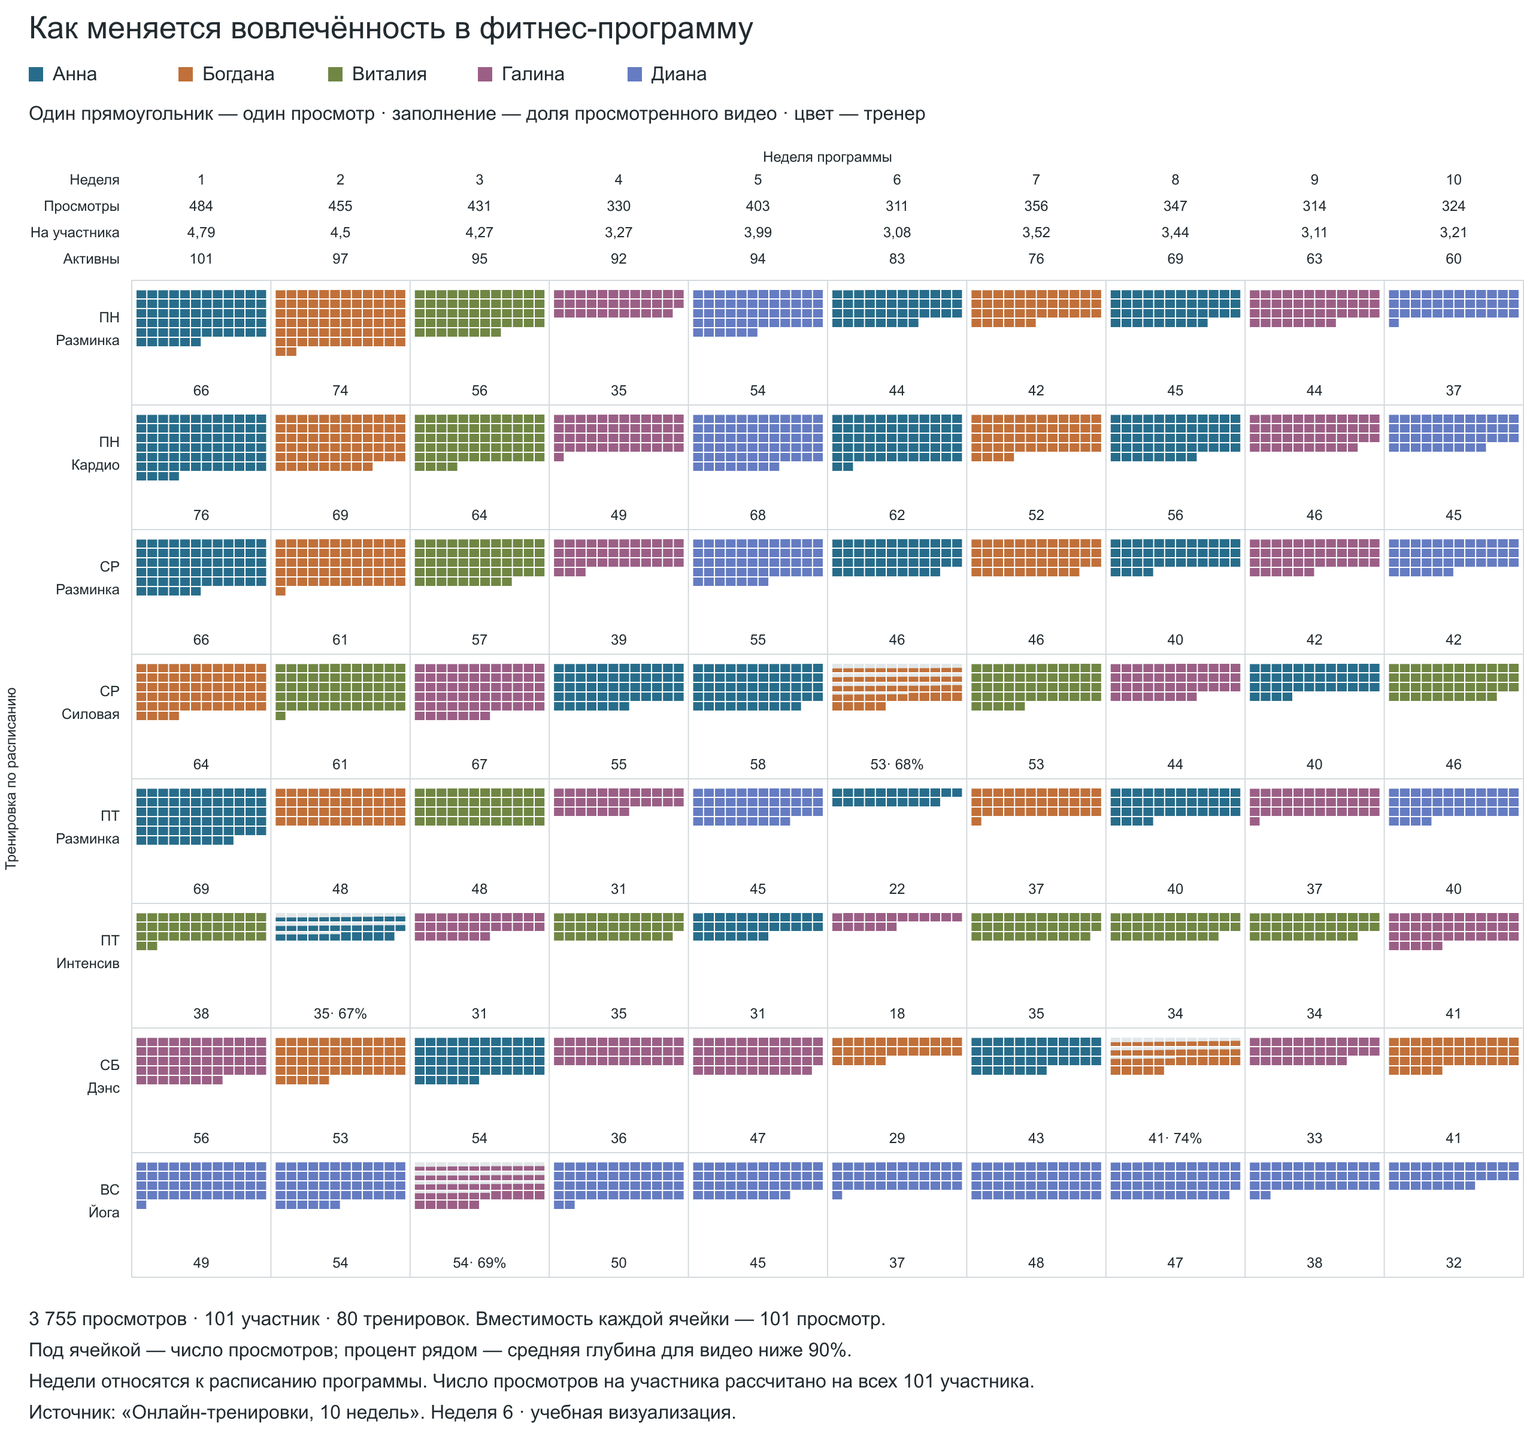
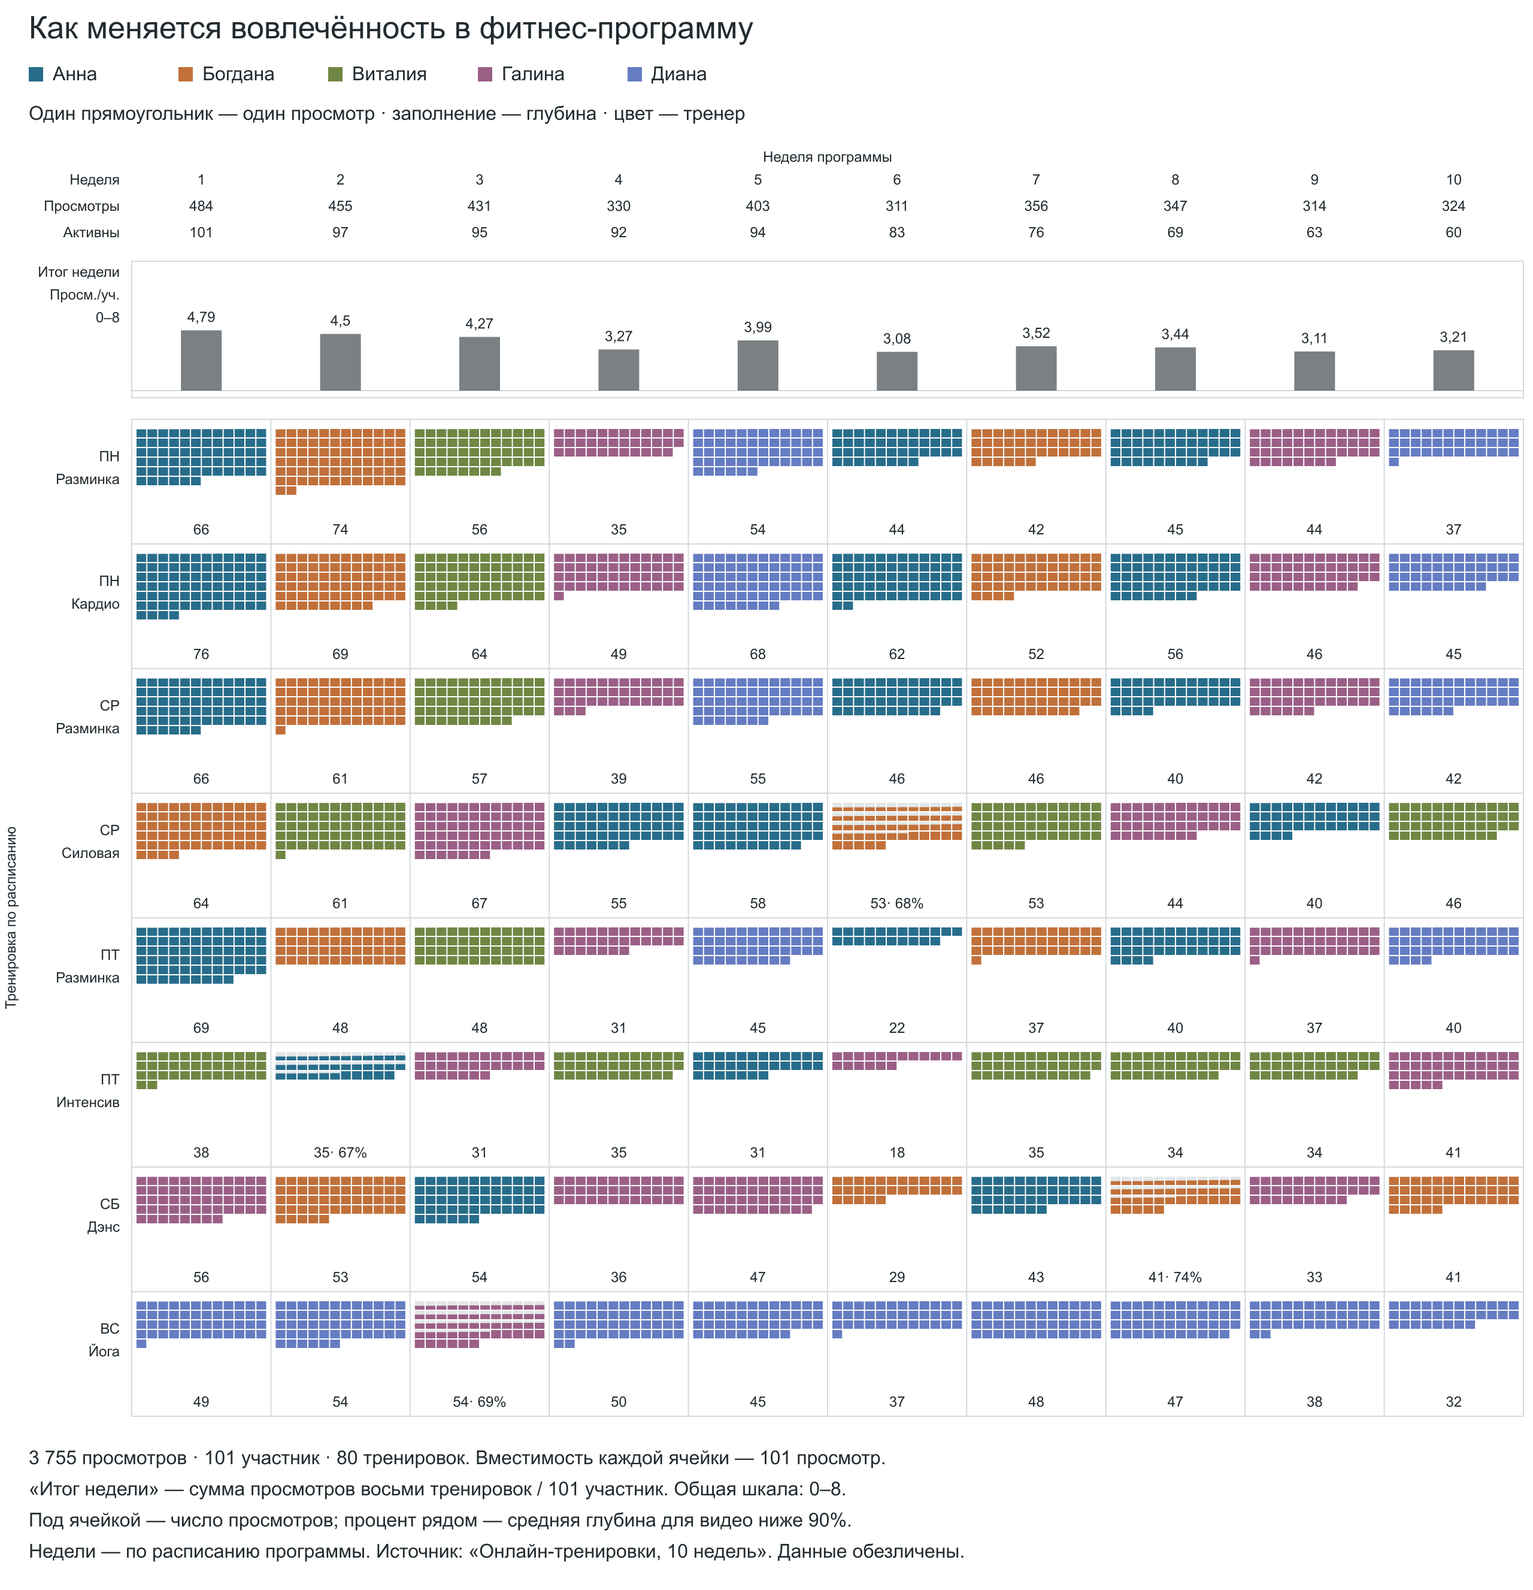
Add weekly engagement totals and simplify homework page

diff --git a/fitness/index.html b/fitness/index.html
@@ -23,7 +23,6 @@ body{max-width:1280px;margin:0 auto;font-family:Arial,sans-serif;color:light-dar
 <span>Неделя 6 · Фитнес-программа</span>
 <a href="#conclusions">Выводы</a>
 <a href="fitness-homework.png" download>График PNG</a>
-<a href="https://github.com/yarosanru/lavka-dashboard/blob/main/fitness/DATALENS.md">Инструкция для DataLens</a>
 <a href="https://github.com/yarosanru/lavka-dashboard/tree/main/fitness">Репозиторий</a>
 </nav>
 <iframe id="codex-visualization" sandbox="allow-scripts" referrerpolicy="no-referrer" title="Неделя 6 — вовлечённость в фитнес-программу" data-srcdoc="&lt;!doctype html&gt;
@@ -1892,6 +1891,33 @@ html&gt;body{padding:0}&lt;/style&gt;
       }
     }
   }
+  function drawWeekSummary(svg,weeks,cw,left){
+    const barTop=124,barBottom=208;
+    const capacity=d3.max(data.weekly,w=&gt;data.workouts.filter(t=&gt;t.week===w.week).length);
+    const scale=d3.scaleLinear().domain([0,capacity]).range([barBottom,barTop]);
+    svg.append(&#x27;rect&#x27;).attr(&#x27;data-summary-frame&#x27;,&#x27;&#x27;).attr(&#x27;x&#x27;,left).attr(&#x27;y&#x27;,100).attr(&#x27;width&#x27;,weeks.length*cw).attr(&#x27;height&#x27;,114).attr(&#x27;fill&#x27;,&#x27;none&#x27;).attr(&#x27;stroke&#x27;,&#x27;var(--border)&#x27;);
+    [[&#x27;Итог недели&#x27;,113],[&#x27;Просм./уч.&#x27;,132],[`0–${capacity}`,151]].forEach(([label,y])=&gt;svg.append(&#x27;text&#x27;).attr(&#x27;class&#x27;,&#x27;fa-axis-tick&#x27;).attr(&#x27;x&#x27;,left-10).attr(&#x27;y&#x27;,y).attr(&#x27;text-anchor&#x27;,&#x27;end&#x27;).text(label));
+    svg.append(&#x27;line&#x27;).attr(&#x27;x1&#x27;,left).attr(&#x27;x2&#x27;,left+weeks.length*cw).attr(&#x27;y1&#x27;,barBottom).attr(&#x27;y2&#x27;,barBottom).attr(&#x27;stroke&#x27;,&#x27;var(--border)&#x27;);
+    for(const [index,week] of weeks.entries()){
+      const workouts=data.workouts.filter(w=&gt;w.week===week.week);
+      const total=d3.sum(workouts,w=&gt;w.views),engagement=total/data.participants;
+      const x=left+index*cw,c=x+cw/2;
+      const link=svg.append(&#x27;a&#x27;).attr(&#x27;href&#x27;,&#x27;#fitness-homework-detail&#x27;).attr(&#x27;data-week-summary&#x27;,week.week).attr(&#x27;data-summary-views&#x27;,total).attr(&#x27;data-summary-population&#x27;,data.participants).attr(&#x27;data-summary-engagement&#x27;,engagement).attr(&#x27;aria-label&#x27;,`Итог недели ${week.week}: ${workouts.length} тренировок, ${total} просмотров, ${num.format(engagement)} на участника, ${week.users} активных участников.`);
+      const barWidth=Math.min(34,cw*.52);
+      link.append(&#x27;rect&#x27;).attr(&#x27;data-summary-bar&#x27;,week.week).attr(&#x27;x&#x27;,c-barWidth/2).attr(&#x27;y&#x27;,scale(engagement)).attr(&#x27;width&#x27;,barWidth).attr(&#x27;height&#x27;,barBottom-scale(engagement)).attr(&#x27;fill&#x27;,&#x27;var(--foreground)&#x27;).attr(&#x27;opacity&#x27;,.6);
+      link.append(&#x27;text&#x27;).attr(&#x27;class&#x27;,&#x27;fa-value&#x27;).attr(&#x27;data-week&#x27;,week.week).attr(&#x27;data-metric&#x27;,&#x27;engagement&#x27;).attr(&#x27;x&#x27;,c).attr(&#x27;y&#x27;,scale(engagement)-7).attr(&#x27;text-anchor&#x27;,&#x27;middle&#x27;).text(num.format(engagement));
+      link.append(&#x27;rect&#x27;).attr(&#x27;data-summary-hit&#x27;,week.week).attr(&#x27;x&#x27;,x+1).attr(&#x27;y&#x27;,101).attr(&#x27;width&#x27;,cw-2).attr(&#x27;height&#x27;,112).attr(&#x27;fill&#x27;,&#x27;transparent&#x27;);
+      function inspectWeek(event){
+        tip.textContent=[`Итог недели ${week.week} · все ${workouts.length} тренировок`,`Всего просмотров: ${total}`,`Просмотров на участника: ${num.format(engagement)}`,`Активных участников: ${week.users} из ${data.participants}`,...workouts.map(w=&gt;`${w.day.toUpperCase()} · ${w.kind}: ${w.views}`)].join(&#x27;\n&#x27;);
+        tip.hidden=false;
+        const rect=root.getBoundingClientRect();
+        tip.style.left=Math.max(0,Math.min(event.clientX-rect.left+12,rect.width-tip.offsetWidth))+&#x27;px&#x27;;
+        tip.style.top=Math.max(0,event.clientY-rect.top-tip.offsetHeight-12)+&#x27;px&#x27;;
+      }
+      link.on(&#x27;pointermove&#x27;,inspectWeek).on(&#x27;pointerleave&#x27;,()=&gt;{tip.hidden=true;}).on(&#x27;focus&#x27;,()=&gt;{const box=link.node().getBoundingClientRect();inspectWeek({clientX:box.left,clientY:box.top});}).on(&#x27;blur&#x27;,()=&gt;{tip.hidden=true;}).on(&#x27;click&#x27;,event=&gt;{event.preventDefault();selection.textContent=`Итог недели ${week.week} · ${total} просмотров восьми тренировок · ${num.format(engagement)} на всех ${data.participants} участников · активны ${week.users}`;inspectWeek(event);});
+    }
+  }
+
   function draw(){
     const width=holder.clientWidth;
     if(!width)return;
@@ -1906,7 +1932,7 @@ html&gt;body{padding:0}&lt;/style&gt;
     const atomHeight=7,atomYGap=1,atomTop=8;
     const markRows=Math.ceil(data.participants/atomCols);
     const rowHeight=atomTop+markRows*(atomHeight+atomYGap)+24;
-    const top=116,bottom=8,height=top+rowHeight*8+bottom;
+    const top=232,bottom=8,height=top+rowHeight*8+bottom;
     for(let start=1;start&lt;=10;start+=weeksPerPanel){
       const weeks=data.weekly.filter(d=&gt;d.week&gt;=start&amp;&amp;d.week&lt;start+weeksPerPanel);
       const end=weeks.at(-1).week;
@@ -1914,12 +1940,12 @@ html&gt;body{padding:0}&lt;/style&gt;
       svg.append(&#x27;rect&#x27;).attr(&#x27;data-chart-frame&#x27;,&#x27;&#x27;).attr(&#x27;x&#x27;,left).attr(&#x27;y&#x27;,top).attr(&#x27;width&#x27;,weeks.length*cw).attr(&#x27;height&#x27;,rowHeight*8).attr(&#x27;fill&#x27;,&#x27;none&#x27;).attr(&#x27;stroke&#x27;,&#x27;var(--border)&#x27;);
       svg.append(&#x27;text&#x27;).attr(&#x27;class&#x27;,&#x27;axis-title&#x27;).attr(&#x27;data-axis&#x27;,&#x27;x&#x27;).attr(&#x27;x&#x27;,left+weeks.length*cw/2).attr(&#x27;y&#x27;,17).attr(&#x27;text-anchor&#x27;,&#x27;middle&#x27;).text(&#x27;Неделя программы&#x27;);
       svg.append(&#x27;text&#x27;).attr(&#x27;class&#x27;,&#x27;axis-title&#x27;).attr(&#x27;data-axis&#x27;,&#x27;y&#x27;).attr(&#x27;transform&#x27;,`translate(13,${top+rowHeight*4}) rotate(-90)`).attr(&#x27;text-anchor&#x27;,&#x27;middle&#x27;).text(&#x27;Тренировка по расписанию&#x27;);
-      [[&#x27;Неделя&#x27;,36],[&#x27;Просмотры&#x27;,58],[&#x27;На участника&#x27;,80],[&#x27;Активны&#x27;,102]].forEach(([label,y])=&gt;svg.append(&#x27;text&#x27;).attr(&#x27;class&#x27;,&#x27;fa-axis-tick&#x27;).attr(&#x27;x&#x27;,left-10).attr(&#x27;y&#x27;,y).attr(&#x27;text-anchor&#x27;,&#x27;end&#x27;).text(label));
+      [[&#x27;Неделя&#x27;,36],[&#x27;Просмотры&#x27;,58],[&#x27;Активны&#x27;,80]].forEach(([label,y])=&gt;svg.append(&#x27;text&#x27;).attr(&#x27;class&#x27;,&#x27;fa-axis-tick&#x27;).attr(&#x27;x&#x27;,left-10).attr(&#x27;y&#x27;,y).attr(&#x27;text-anchor&#x27;,&#x27;end&#x27;).text(label));
       const allPositions=[],workoutLinks=[];
       weeks.forEach((week,index)=&gt;{
         const x=left+index*cw;
         const c=x+cw/2;
-        [[week.week,36,&#x27;week&#x27;],[week.views,58,&#x27;views&#x27;],[num.format(week.views/data.participants),80,&#x27;engagement&#x27;],[week.users,102,&#x27;users&#x27;]].forEach(([value,y,metric])=&gt;svg.append(&#x27;text&#x27;).attr(&#x27;class&#x27;,&#x27;fa-value&#x27;).attr(&#x27;data-week&#x27;,week.week).attr(&#x27;data-metric&#x27;,metric).attr(&#x27;x&#x27;,c).attr(&#x27;y&#x27;,y).attr(&#x27;text-anchor&#x27;,&#x27;middle&#x27;).text(value));
+        [[week.week,36,&#x27;week&#x27;],[week.views,58,&#x27;views&#x27;],[week.users,80,&#x27;users&#x27;]].forEach(([value,y,metric])=&gt;svg.append(&#x27;text&#x27;).attr(&#x27;class&#x27;,&#x27;fa-value&#x27;).attr(&#x27;data-week&#x27;,week.week).attr(&#x27;data-metric&#x27;,metric).attr(&#x27;x&#x27;,c).attr(&#x27;y&#x27;,y).attr(&#x27;text-anchor&#x27;,&#x27;middle&#x27;).text(value));
         if(index&gt;0)svg.append(&#x27;line&#x27;).attr(&#x27;x1&#x27;,x).attr(&#x27;x2&#x27;,x).attr(&#x27;y1&#x27;,top).attr(&#x27;y2&#x27;,top+rowHeight*8).attr(&#x27;stroke&#x27;,&#x27;var(--border)&#x27;);
         for(let slot=1;slot&lt;=8;slot++){
           const w=data.workouts.find(d=&gt;d.week===week.week&amp;&amp;Number(d.code.slice(-2))===slot);
@@ -1973,6 +1999,7 @@ html&gt;body{padding:0}&lt;/style&gt;
         label.append(&#x27;tspan&#x27;).text(w.views);
         if(w.mean_depth&lt;.9)label.append(&#x27;tspan&#x27;).attr(&#x27;data-low-depth&#x27;,w.code).text(` · ${Math.round(w.mean_depth*100)}%`);
       }
+      drawWeekSummary(svg,weeks,cw,left);
       verifyLabels(svg);
     }
   }
@@ -2584,6 +2611,7 @@ html&gt;body{padding:0}&lt;/style&gt;
 <p>Таким образом, график показывает сокращение числа просмотров и охвата, вклад отдельных тренировок в общее изменение и четыре отклонения по глубине. Наблюдаемое совпадение не доказывает, что конкретная тренировка или тренер стали причиной прекращения просмотров.</p>
 <h2>Как устроен график</h2>
 <p>Частица данных — один просмотр конкретной тренировки конкретным участником. Каждый из 3 755 просмотров показан отдельным прямоугольником. Каркас: по горизонтали — десять недель программы, по вертикали — восемь тренировок по дням и типам. Цвет кодирует тренера, заполненная доля площади — глубину. В каждой ячейке одинаковая вместимость 101; отсутствующие просмотры не рисуются. Фигуры упорядочены от меньшей глубины к большей.</p>
+<p>Ряд «Итог недели» объединяет все восемь тренировок каждой недели. Высота столбика — суммарные просмотры / 101 участник. Шкала одинакова для всех недель: от 0 до 8 просмотров на участника. В подсказке — недельный итог, активные участники и число просмотров каждой из восьми тренировок. Итоговые столбики — агрегаты тех же данных, поэтому к 3 755 отдельным просмотрам они не прибавляются.</p>
 <p>Пример частицы: одна частично заполненная фигура в ячейке интенсива Анны во второй неделе. В публичной версии фигуры восстановлены из обезличенного распределения глубины с точностью 0,1 процентного пункта. ID участников, исходные ID просмотров, персональные даты и связи между просмотрами не публикуются. Недели относятся к расписанию программы, а не к календарным неделям просмотра. Единица длительности в исходном файле явно не указана.</p>
 <p>Источник: предоставленный учебный файл «Онлайн-тренировки, 10 недель--954768701.xlsx», лист «Просмотры». <a href="https://github.com/yarosanru/lavka-dashboard/blob/main/fitness/HOMEWORK.md">Полное пояснение к домашней работе</a>.</p>
 </section>

diff --git a/fitness/HOMEWORK.md b/fitness/HOMEWORK.md
@@ -20,6 +20,8 @@
 
 Над неделями подписаны просмотры, просмотры на всех участников и число активных участников. Под каждой тренировкой — число просмотров; общий максимум 101 вынесен в легенду. У четырёх видео рядом с числом просмотров подписана средняя глубина в процентах. Имена тренеров оставлены в легенде и подсказках, в ячейках тренер кодируется цветом. Все 3 755 частиц остаются на графике без объединения в усреднённые фигуры.
 
+Ряд «Итог недели» суммирует просмотры всех восьми тренировок соответствующей недели. Высота столбика — сумма просмотров / 101 участник; единая шкала 0–8 соответствует максимуму восьми тренировок на участника. В подсказке доступны общий итог и восемь составляющих. Это агрегат тех же данных, а не дополнительные просмотры; его нельзя прибавлять к отдельным частицам.
+
 **Где показать частицу:** одна частично заполненная фигура в ячейке интенсива Анны второй недели. Публичная версия восстановлена из обезличенных распределений глубины с шагом 0,1 процентного пункта; исходные ID и связи между просмотрами участников отсутствуют.
 
 ## Что показывают данные

diff --git a/fitness/README.md b/fitness/README.md
@@ -6,6 +6,5 @@
 
 - [Пояснение и выводы по требованиям домашки](HOMEWORK.md)
 - [Изображение графика](fitness-homework.png)
-- [Загрузка в DataLens, типы полей и показатели](DATALENS.md)
 
-Excel и CSV для импорта содержат одну строку на реальный просмотр и производные поля для анализа. Эти файлы переданы владельцу работы отдельно и исключены из публичного репозитория.
+Ряд «Итог недели» суммирует просмотры восьми тренировок: высота столбика показывает суммарные просмотры / 101 участник, шкала 0–8.

diff --git a/README.md b/README.md
@@ -2,7 +2,7 @@
 
 Интерактивный дашборд истории заказов на Vue.js 3.5.22 и D3.js 7.9.0.
 
-Отдельная домашняя работа: [Неделя 6 — график вовлечённости в фитнес-программу](https://yarosanru.github.io/lavka-dashboard/fitness/). [Выводы и данные для DataLens](fitness/README.md).
+Отдельная домашняя работа: [Неделя 6 — график вовлечённости в фитнес-программу](https://yarosanru.github.io/lavka-dashboard/fitness/). [Описание графика и выводы](fitness/README.md).
 
 ## Просмотр
 
